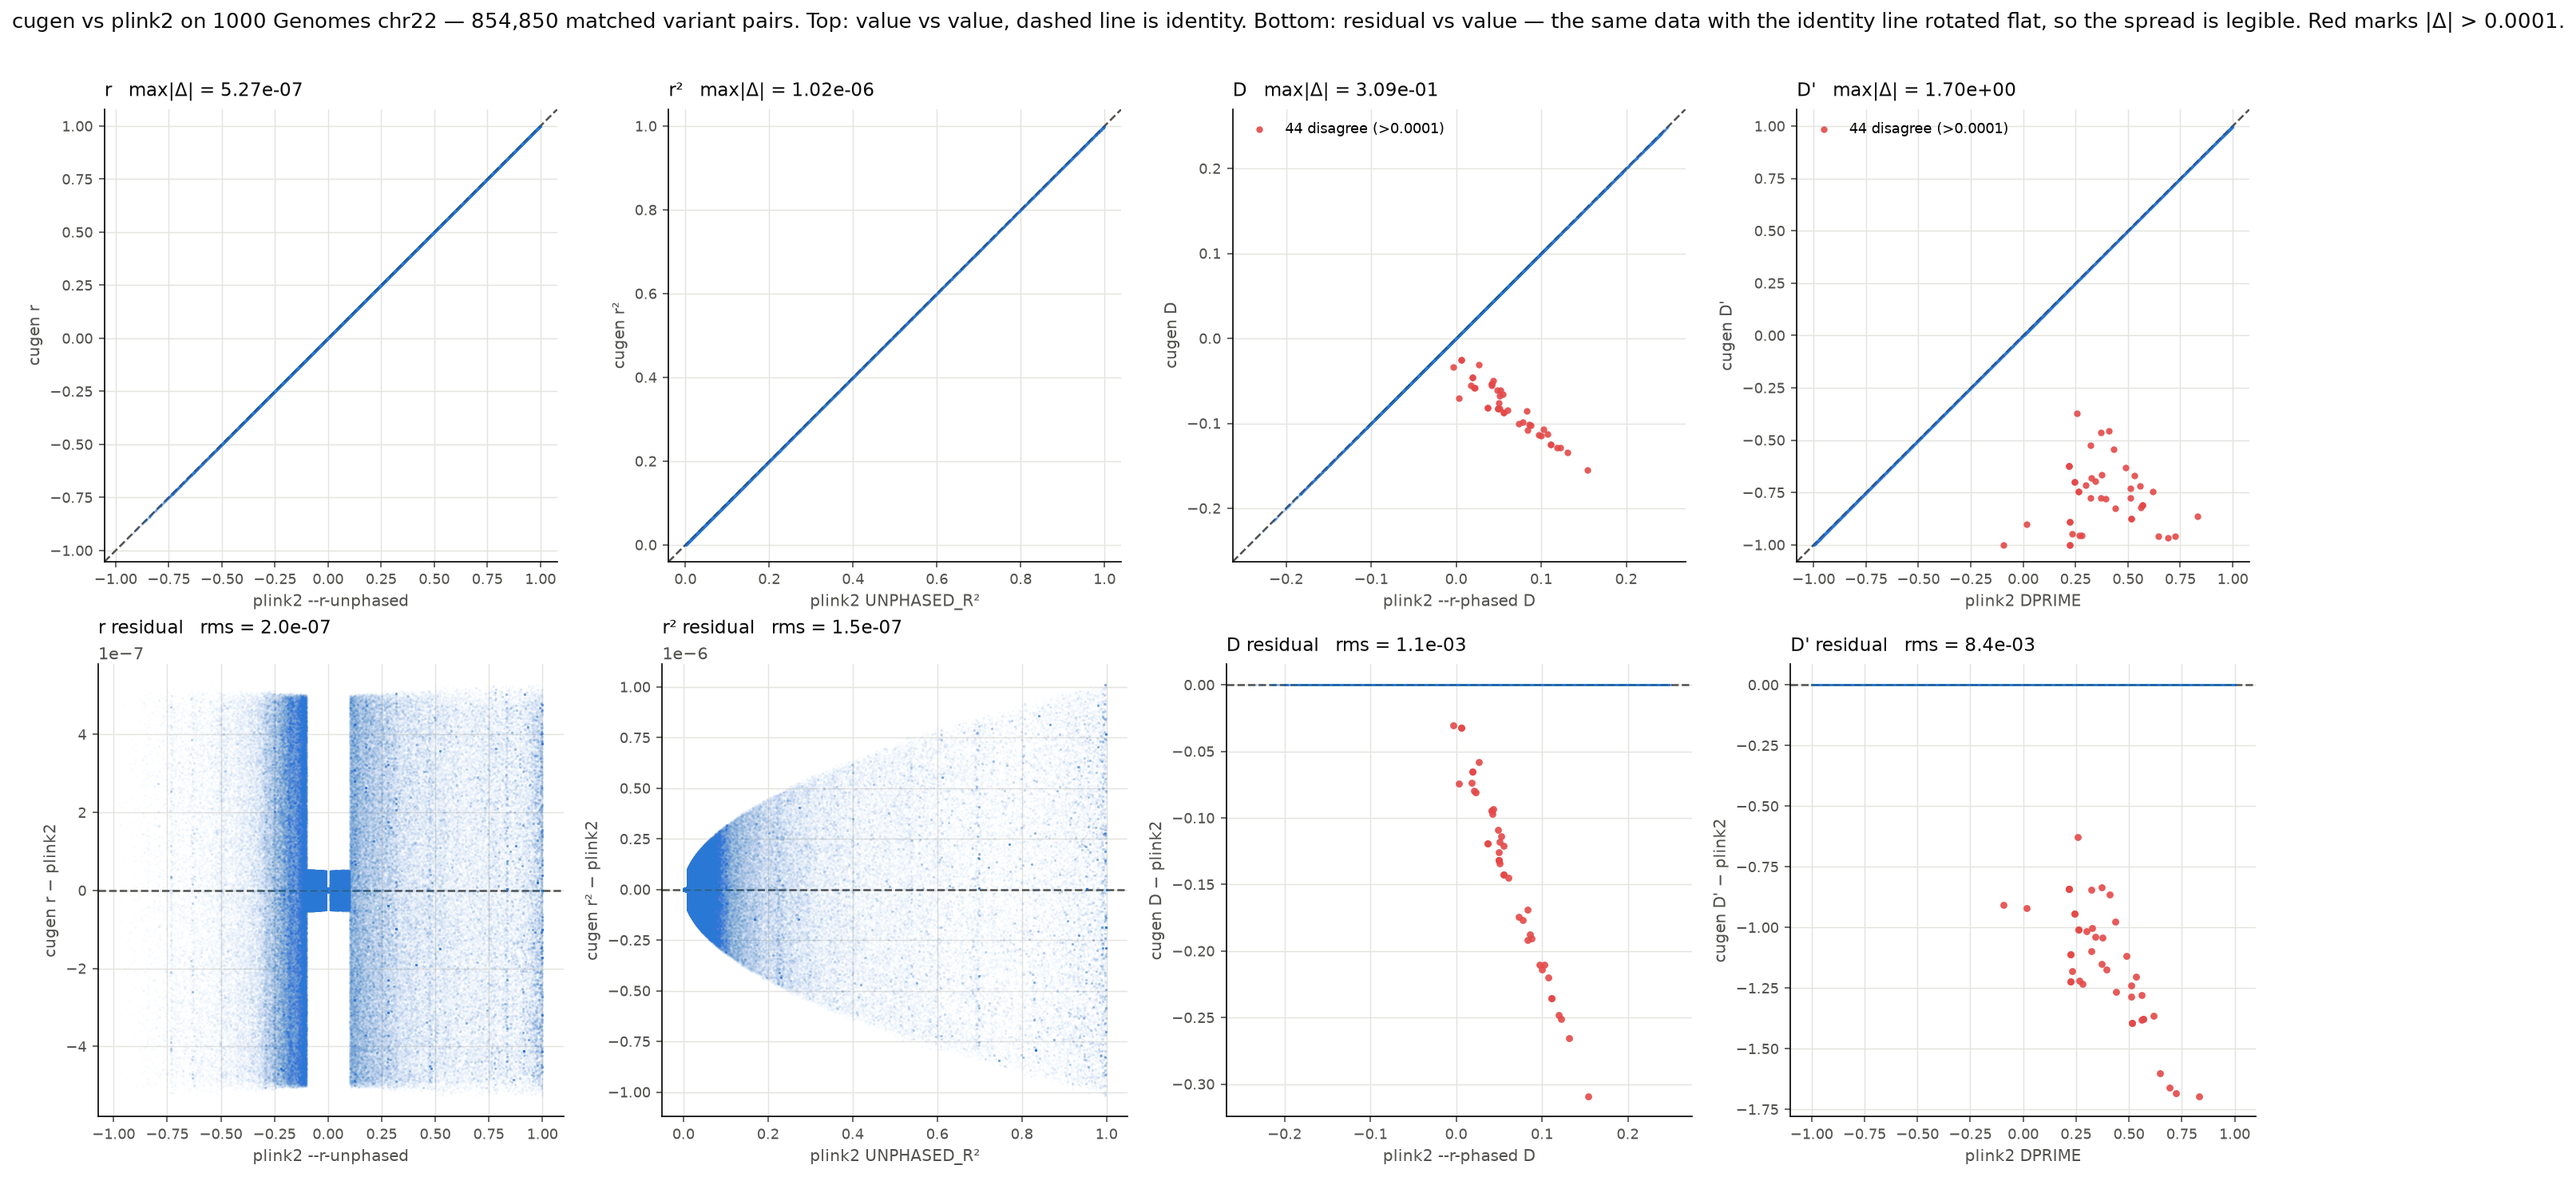
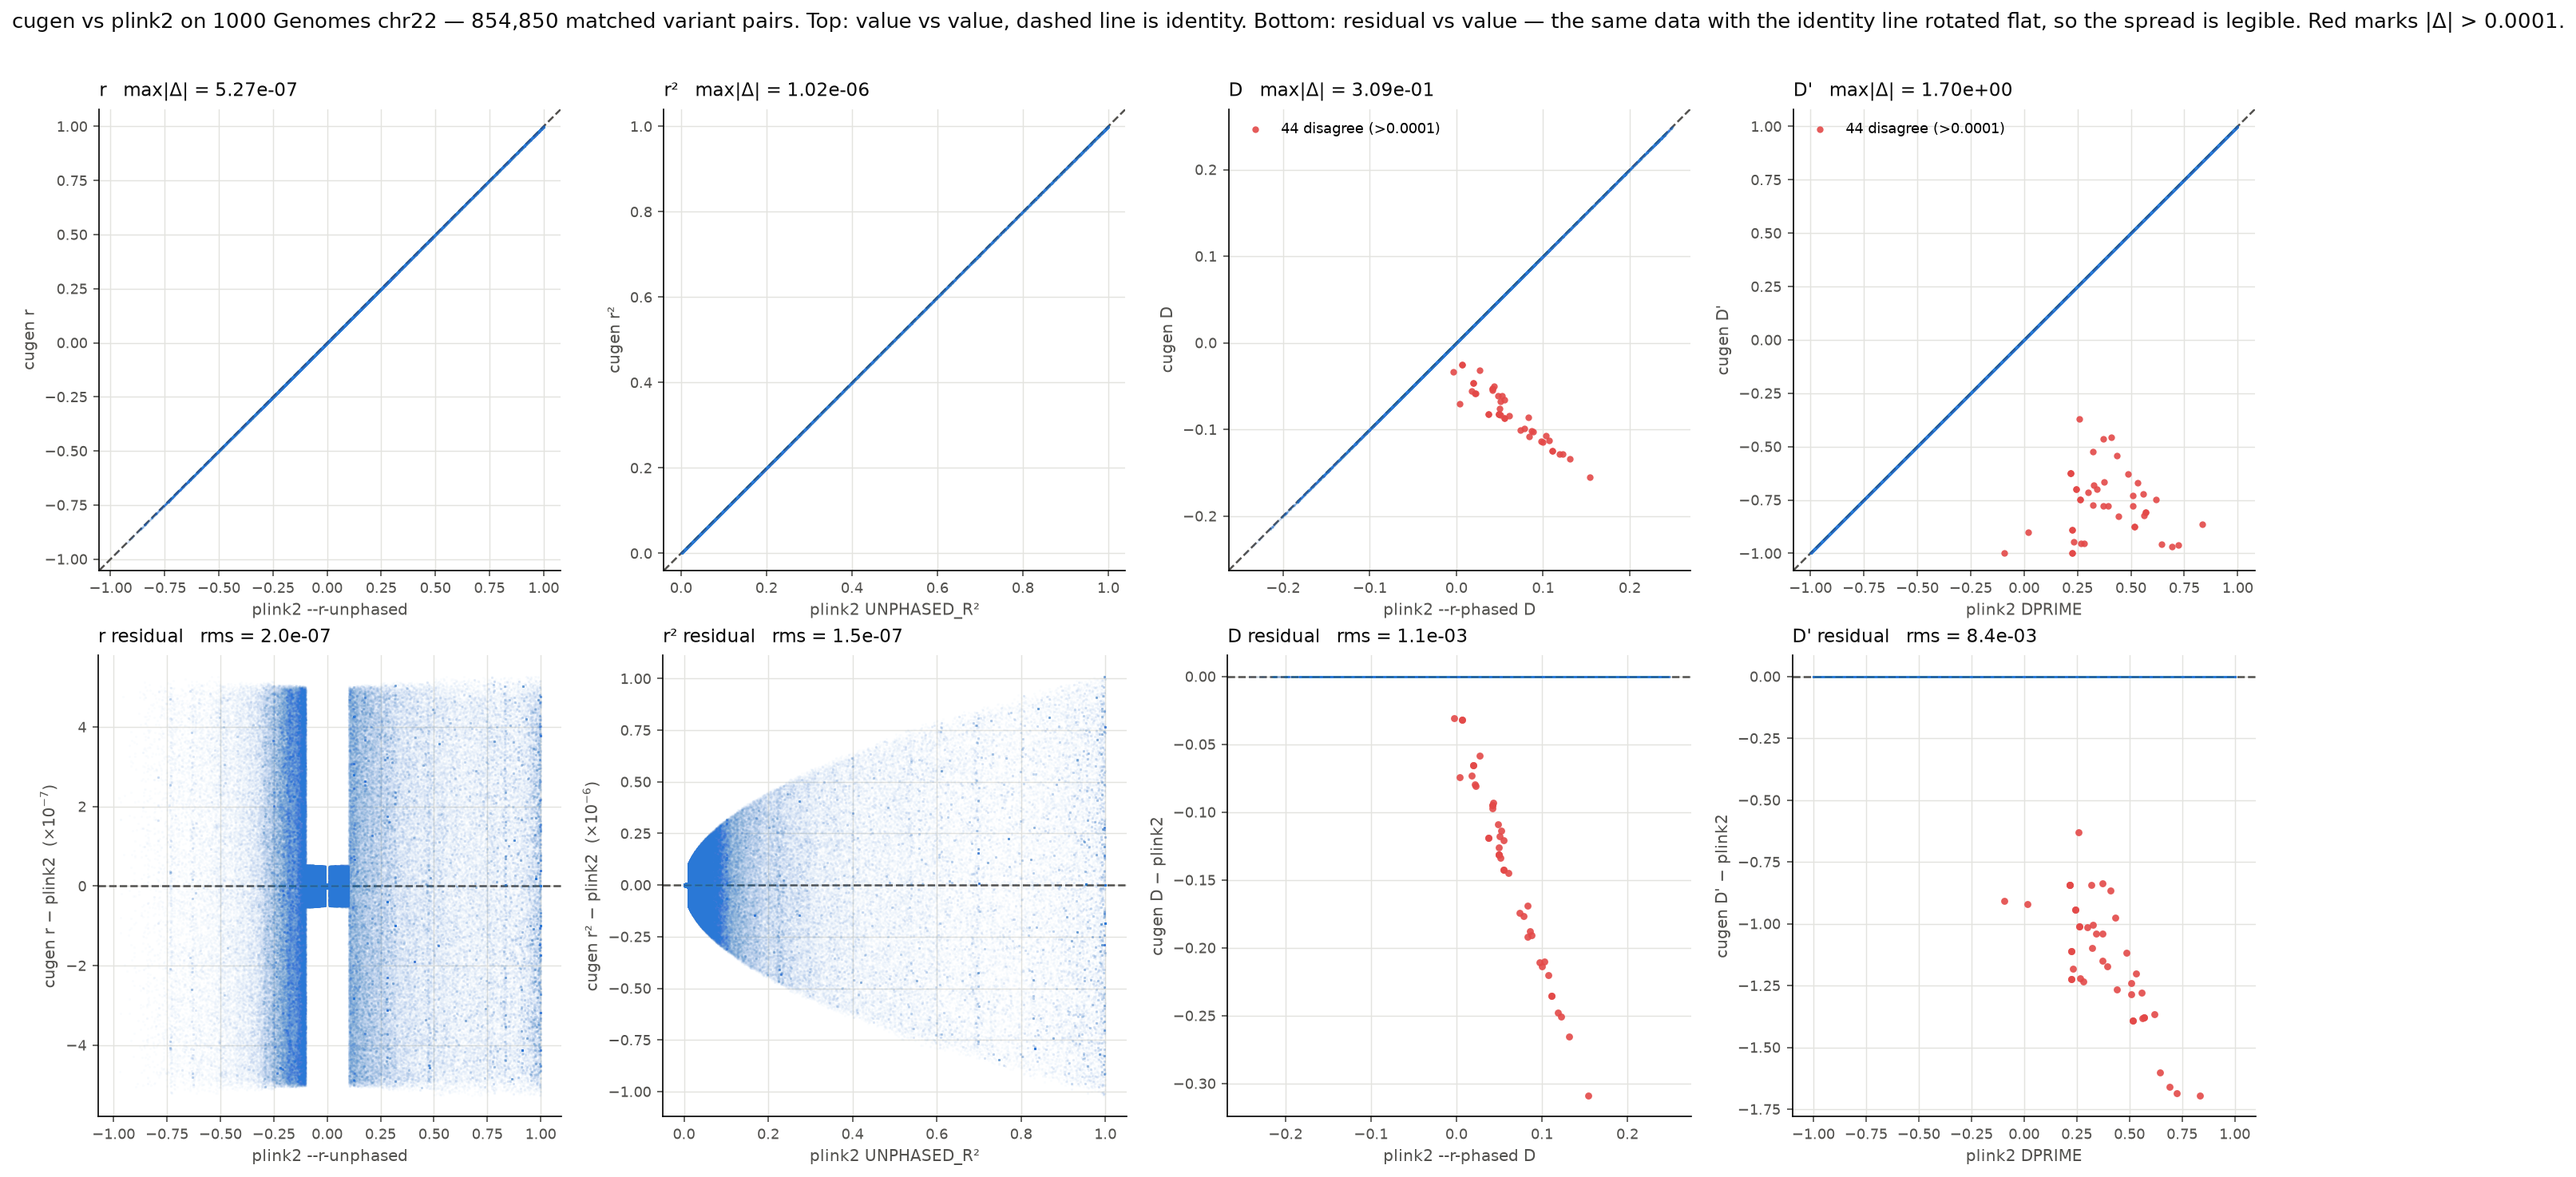
Put the residual axis exponent in the label, not the corner
The r and r2 residual panels were relying on matplotlib's offset
multiplier: a 7pt "1e-7" parked outside the axes, leaving the ticks
reading -5..5. On a residual between two correlations that does not
merely risk confusion, it invites a confident wrong reading -- the
disagreement appears to span the whole admissible range of r.

Scale each residual panel by a power of ten and put the exponent in the
y-axis label. Panels whose residuals are already O(1) are left alone, so
D' still reports its real -1.7 rather than being flattened for the sake
of uniformity.

diff --git a/benchmarks/plot_concordance.py b/benchmarks/plot_concordance.py
@@ -76,6 +76,27 @@ for ax, (name, c1, c2, xlabel) in zip(axes, panels):
         ax.spines[s].set_visible(False)
     ax.tick_params(colors=INK2, labelsize=8.5)
 
+def unit_scale(v):
+    """Choose a power-of-ten divisor and an axis-label suffix for it.
+
+    matplotlib's default for tiny values is an offset multiplier parked in the
+    axis corner as a 7pt `1e-7`, leaving the ticks reading -5..5. On a residual
+    between two correlations that is actively misleading -- it looks like the
+    disagreement spans the whole admissible range of r. Fold the exponent into
+    the axis LABEL, which is read, and let the ticks be plain numbers.
+
+    Returns (1.0, "") when the values are already O(1), so the D/D' panels --
+    whose residuals really do reach -1.7 -- are left alone.
+    """
+    m = float(np.nanmax(np.abs(v))) if len(v) else 0.0
+    if not np.isfinite(m) or m == 0.0:
+        return 1.0, ""
+    e = int(np.floor(np.log10(m)))
+    if -1 <= e <= 1:
+        return 1.0, ""
+    return 10.0 ** e, f"  (×10$^{{{e}}}$)"
+
+
 # --- residual row: delta vs value, where density is visible ---------------
 for ax, (name, c1, c2, xlabel) in zip(allax[1], panels):
     x, y = df[c2].to_numpy(), df[c1].to_numpy()
@@ -83,14 +104,18 @@ for ax, (name, c1, c2, xlabel) in zip(allax[1], panels):
     x, y = x[ok], y[ok]
     d = y - x
     bad = np.abs(d) > TOL
+    div, suffix = unit_scale(d)
     ax.axhline(0.0, color=INK2, lw=1.2, ls="--", zorder=1)
-    ax.scatter(x[~bad], d[~bad], s=2, c=BLUE, alpha=0.02, linewidths=0,
+    ax.scatter(x[~bad], d[~bad] / div, s=2, c=BLUE, alpha=0.02, linewidths=0,
                zorder=2, rasterized=True)
     if bad.any():
-        ax.scatter(x[bad], d[bad], s=18, c=RED, alpha=0.9, linewidths=0,
+        ax.scatter(x[bad], d[bad] / div, s=18, c=RED, alpha=0.9, linewidths=0,
                    zorder=3)
+    # Belt and braces: with the exponent now in the label, a leftover corner
+    # offset would be a second, contradictory scale on the same axis.
+    ax.ticklabel_format(axis="y", style="plain", useOffset=False)
     ax.set_xlabel(xlabel, fontsize=9.5, color=INK2)
-    ax.set_ylabel(f"cugen {name} − plink2", fontsize=9.5, color=INK2)
+    ax.set_ylabel(f"cugen {name} − plink2{suffix}", fontsize=9.5, color=INK2)
     rms = float(np.sqrt((d ** 2).mean()))
     ax.set_title(f"{name} residual   rms = {rms:.1e}", fontsize=11, color=INK,
                  loc="left", pad=8)
